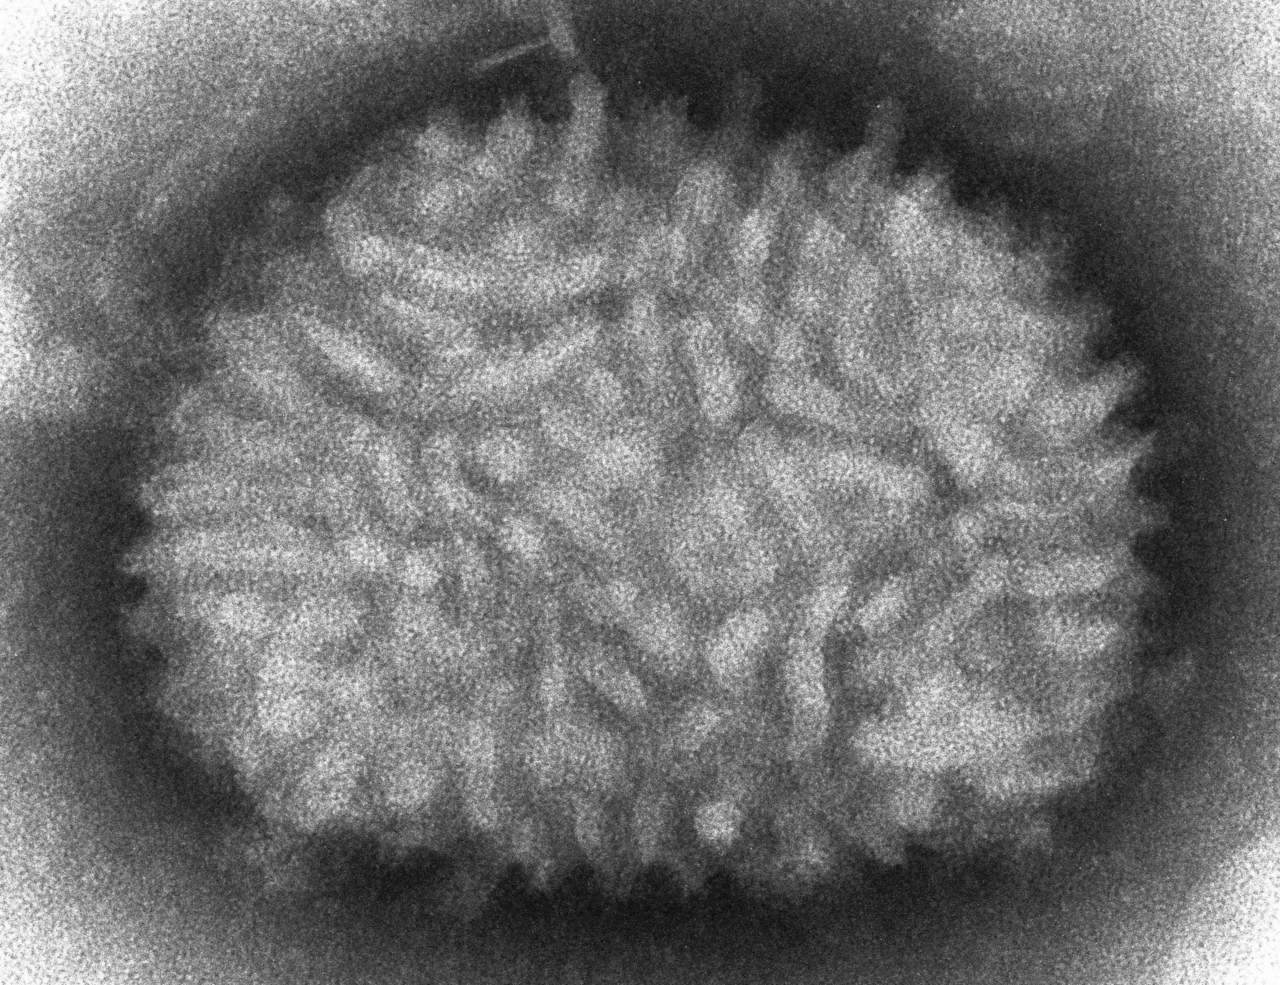
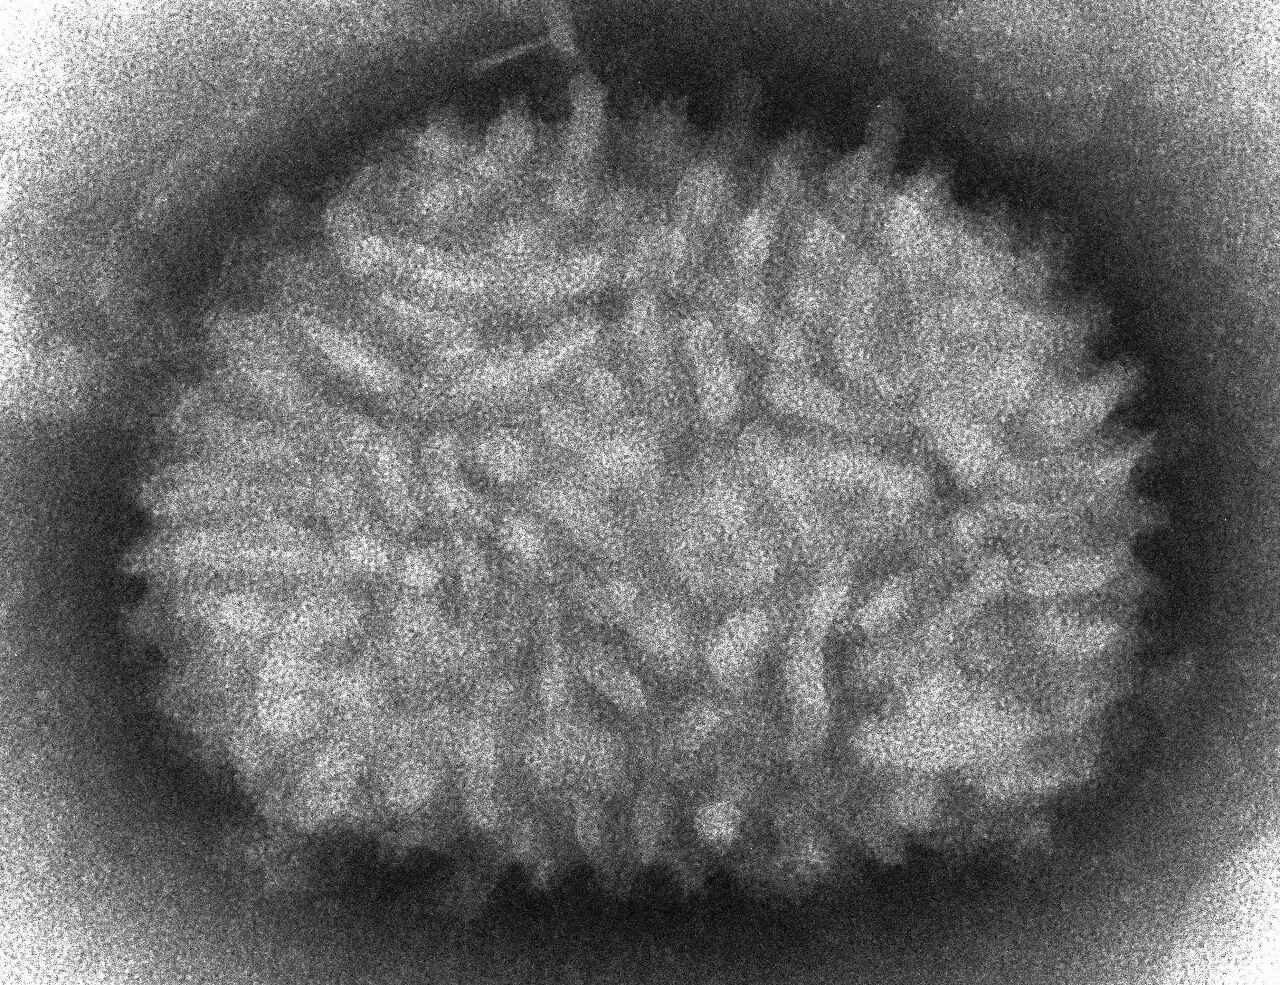
🍱 (products): Update images
Bring the overlay/teaser images into the repository

Resize some of the teaser images to be smaller

Add the sources of some of the images in a text file in the directory

diff --git a/_products/sars-cov-2-pseudovirus.md b/_products/sars-cov-2-pseudovirus.md
@@ -6,8 +6,8 @@ last_modified_at: 2025-01-16
 number: 0
 
 header:
-  teaser: https://images.pexels.com/photos/3992933/pexels-photo-3992933.jpeg?auto=compress&cs=tinysrgb&w=420&h=250&dpr=1
-  overlay_image: https://images.pexels.com/photos/3992933/pexels-photo-3992933.jpeg?auto=compress&cs=tinysrgb&w=1260&h=750&dpr=1
+  teaser: /assets/images/products/sars-pseudovirus/pexels-photo-3992933-300.jpeg
+  overlay_image: /assets/images/products/sars-pseudovirus/pexels-photo-3992933-1049.jpeg
   overlay_filter: 0.3
   show_overlay_excerpt: false
 

diff --git a/_products/recombinant-vsv.md b/_products/recombinant-vsv.md
@@ -6,8 +6,8 @@ published: no
 number: 1
 
 header:
-  teaser: https://upload.wikimedia.org/wikipedia/commons/1/1a/Vesicular_stomatitis_virus_%28VSV%29_EM_18_lores.jpg
-  overlay_image: https://upload.wikimedia.org/wikipedia/commons/1/1a/Vesicular_stomatitis_virus_%28VSV%29_EM_18_lores.jpg
+  teaser: /assets/images/products/recombinant-vsv/vsv-300.jpg
+  overlay_image: /assets/images/products/recombinant-vsv/vsv.jpg
   # overlay_filter: 0.3
   show_overlay_excerpt: false
 ---

diff --git a/_products/recombinant-vaccinia.md b/_products/recombinant-vaccinia.md
@@ -6,7 +6,7 @@ published: no
 number: 2
 
 header:
-  teaser: /assets/images/products/recombinant-vaccinia/vaccinia-750.jpg
+  teaser: /assets/images/products/recombinant-vaccinia/vaccinia-300.jpg
   overlay_image: /assets/images/products/recombinant-vaccinia/vaccinia-1280.jpg
   # overlay_filter: 0.3
   show_overlay_excerpt: false
